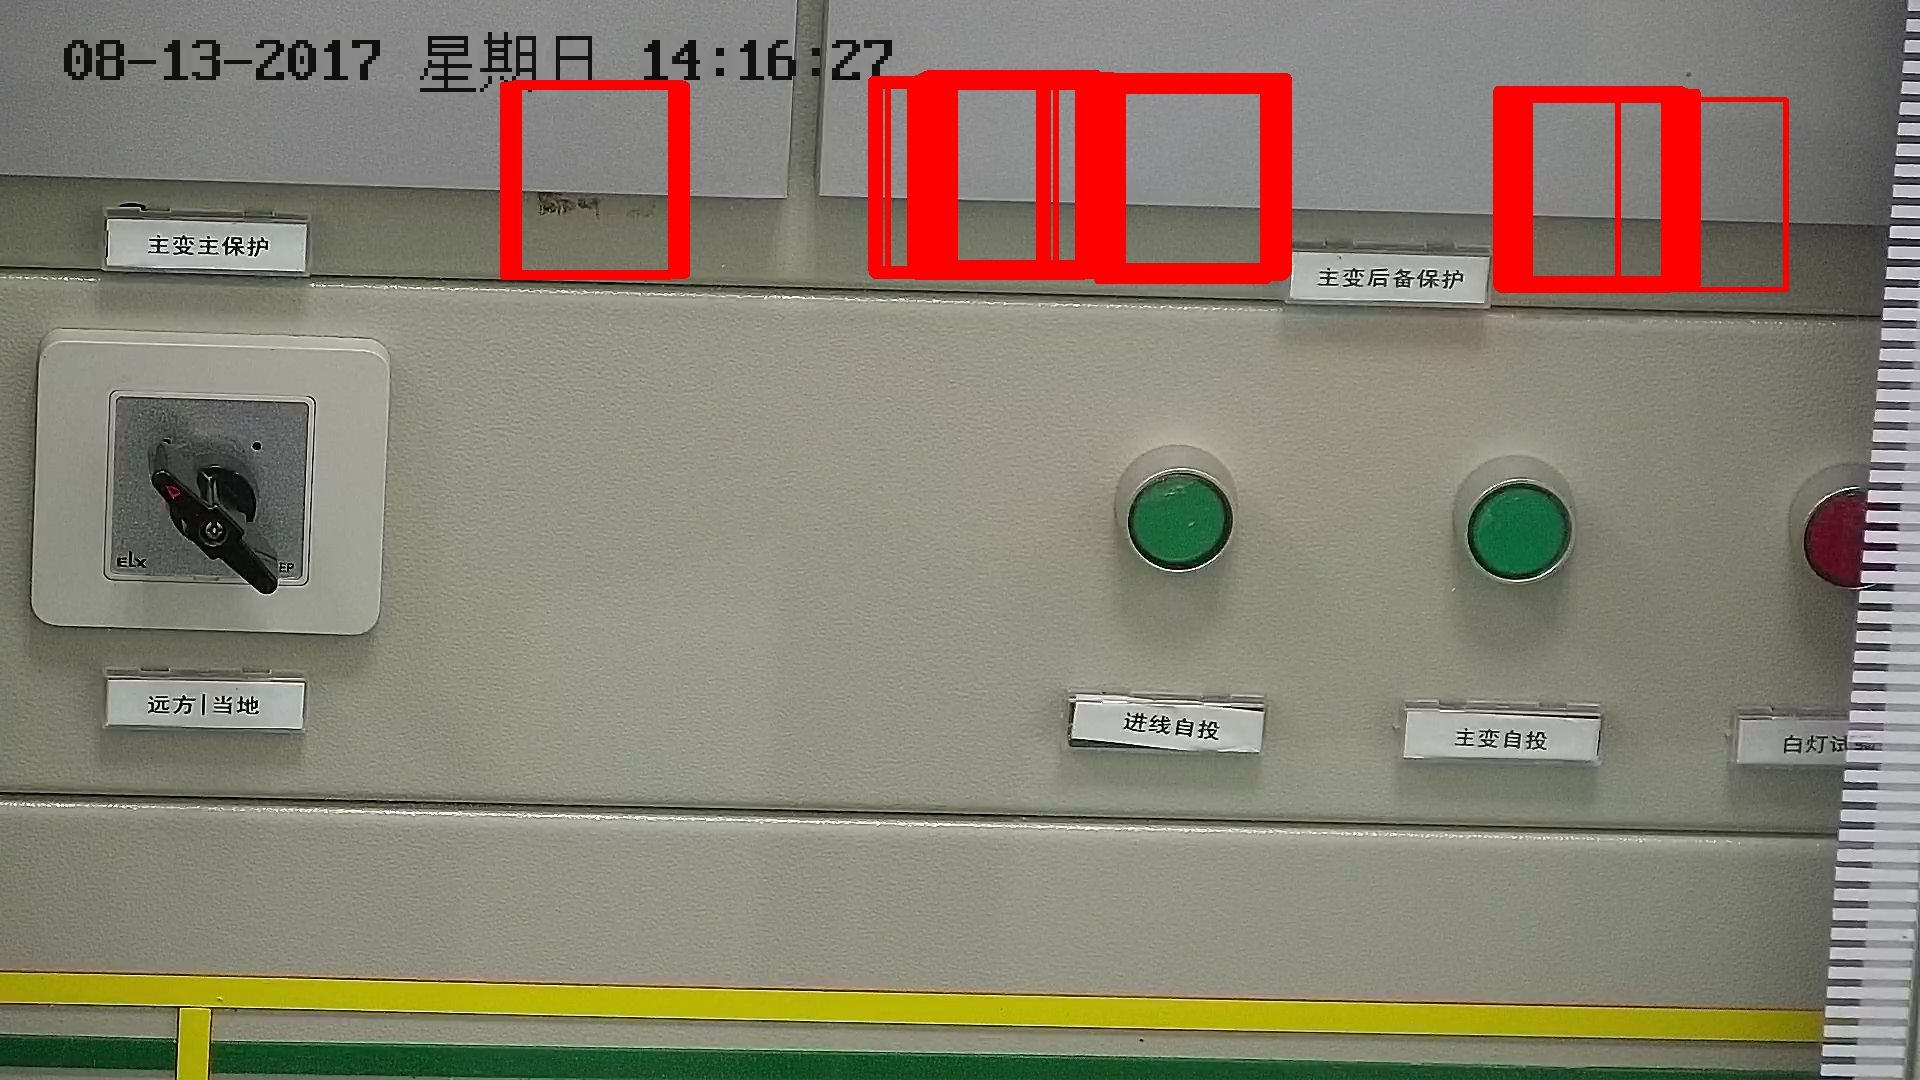
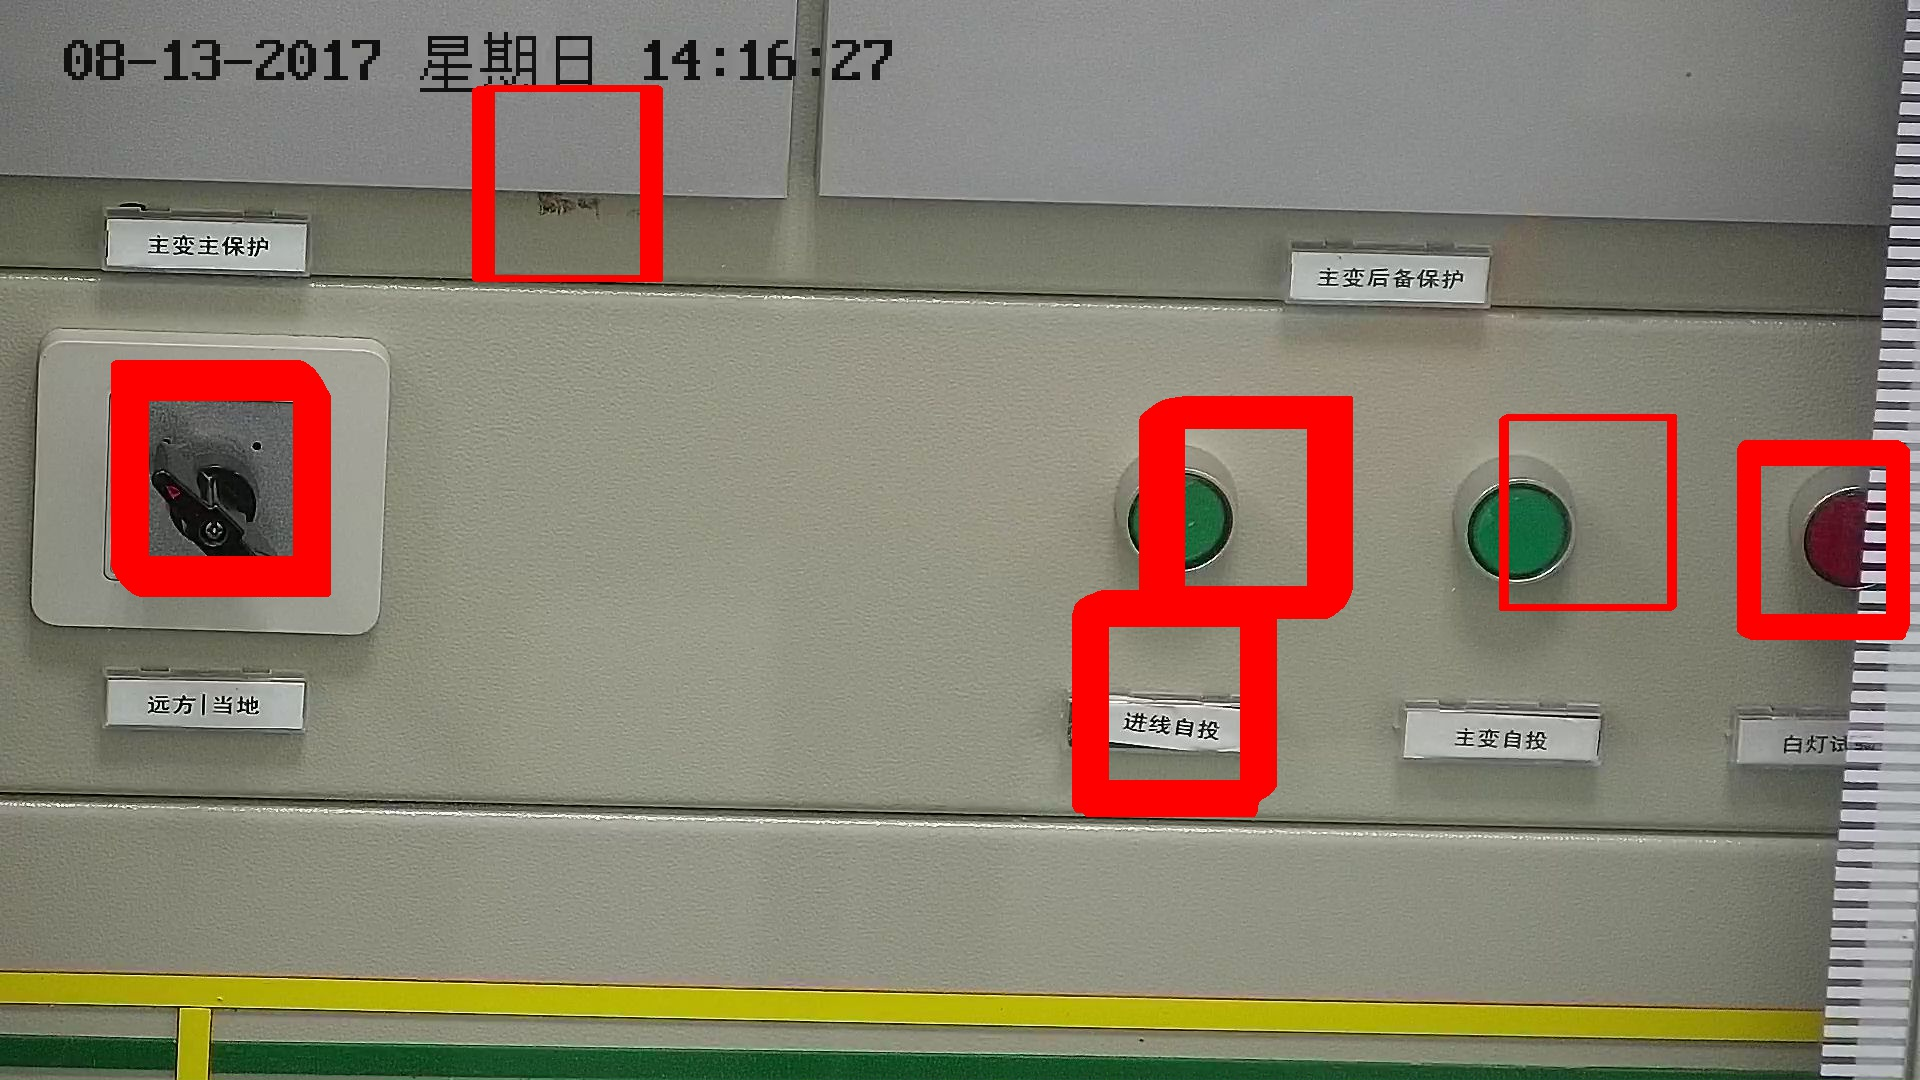
template result

diff --git a/demo.py b/demo.py
@@ -6,9 +6,9 @@ import cv2
 from matplotlib import pyplot as plt
 
 file_name = glob("./images/" + "*jpg")
-template = cv2.imread('template/sr.png', 0)
-template2 = cv2.imread('template/sl.png', 0)
-template3 = cv2.imread('template/sm.png', 0)
+template = cv2.imread('template/tr.png', 0)
+template2 = cv2.imread('template/tl.png', 0)
+template3 = cv2.imread('template/tm.png', 0)
 for file in file_name:
     image_c = cv2.imread(file)  # uncomment if dataset not downloaded
     image = cv2.cvtColor(image_c, cv2.COLOR_BGR2GRAY)
@@ -16,11 +16,8 @@ for file in file_name:
     (filename, extension) = os.path.splitext(tempfilename)
 
     image = cv2.medianBlur(image, 5)
-    # ret, image = cv2.threshold(image, 60, 155, cv2.THRESH_BINARY)
-    th2 = cv2.adaptiveThreshold(image, 255, cv2.ADAPTIVE_THRESH_MEAN_C, cv2.THRESH_BINARY, 11, 2)
+    ret, image = cv2.threshold(image, 60, 155, cv2.THRESH_BINARY)
     # image = cv2.adaptiveThreshold(image, 255, cv2.ADAPTIVE_THRESH_GAUSSIAN_C, cv2.THRESH_BINARY, 11, 2)
-    kernel = np.ones((5, 5), np.float32) / 25
-    image = cv2.filter2D(th2, -1, kernel)
 
     w, h = template.shape[::-1]
     w2, h2 = template2.shape[::-1]
@@ -31,7 +28,7 @@ for file in file_name:
     res = cv2.matchTemplate(image, template, cv2.TM_CCORR_NORMED)
     res2 = cv2.matchTemplate(image, template2, cv2.TM_CCORR_NORMED)
     res3 = cv2.matchTemplate(image, template3, cv2.TM_CCORR_NORMED)
-    threshold = 0.925
+    threshold = 0.915
     # min_val, max_val, min_loc, max_loc = cv2.minMaxLoc(res)
     # 使用不同的比较方法，对结果的解释不同
     # If the method is TM_SQDIFF or TM_SQDIFF_NORMED, take minimum
